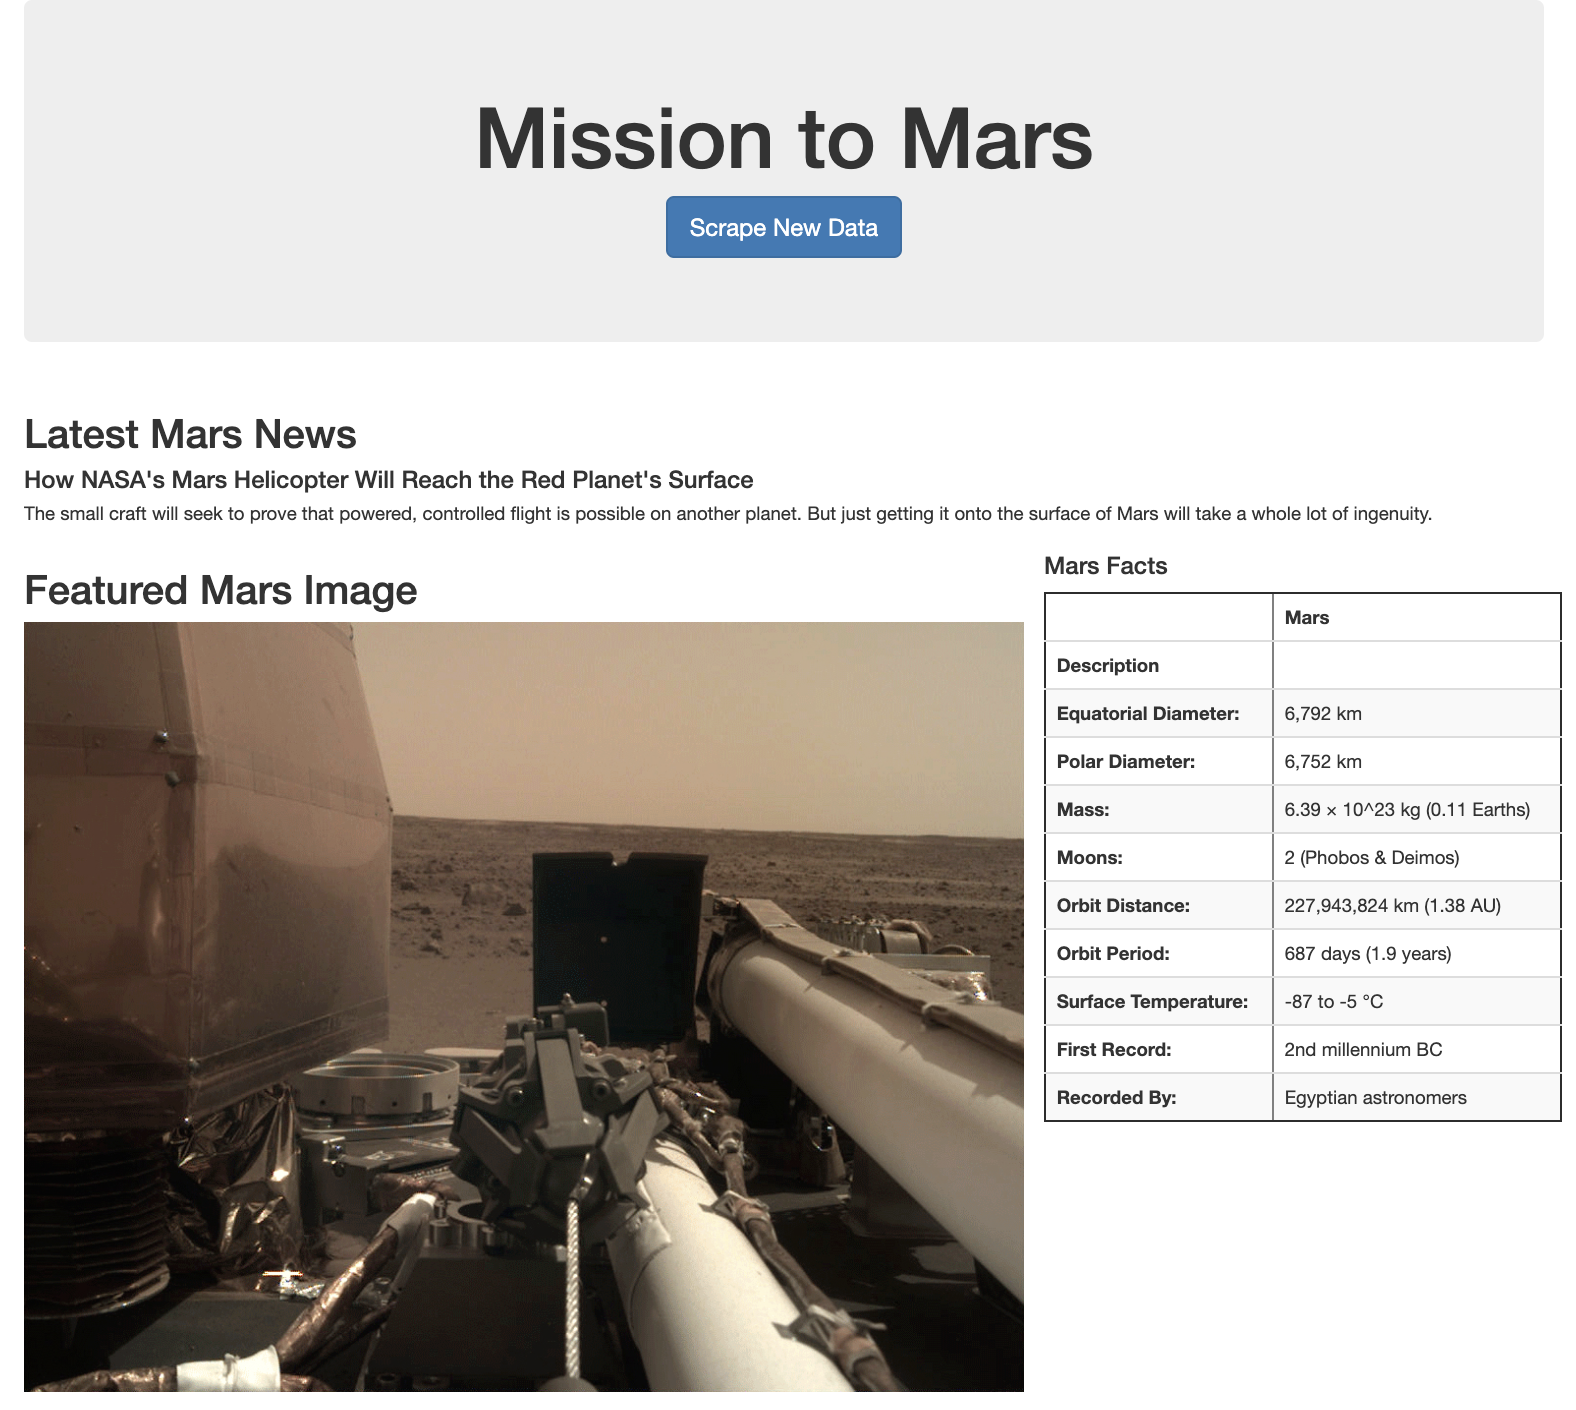
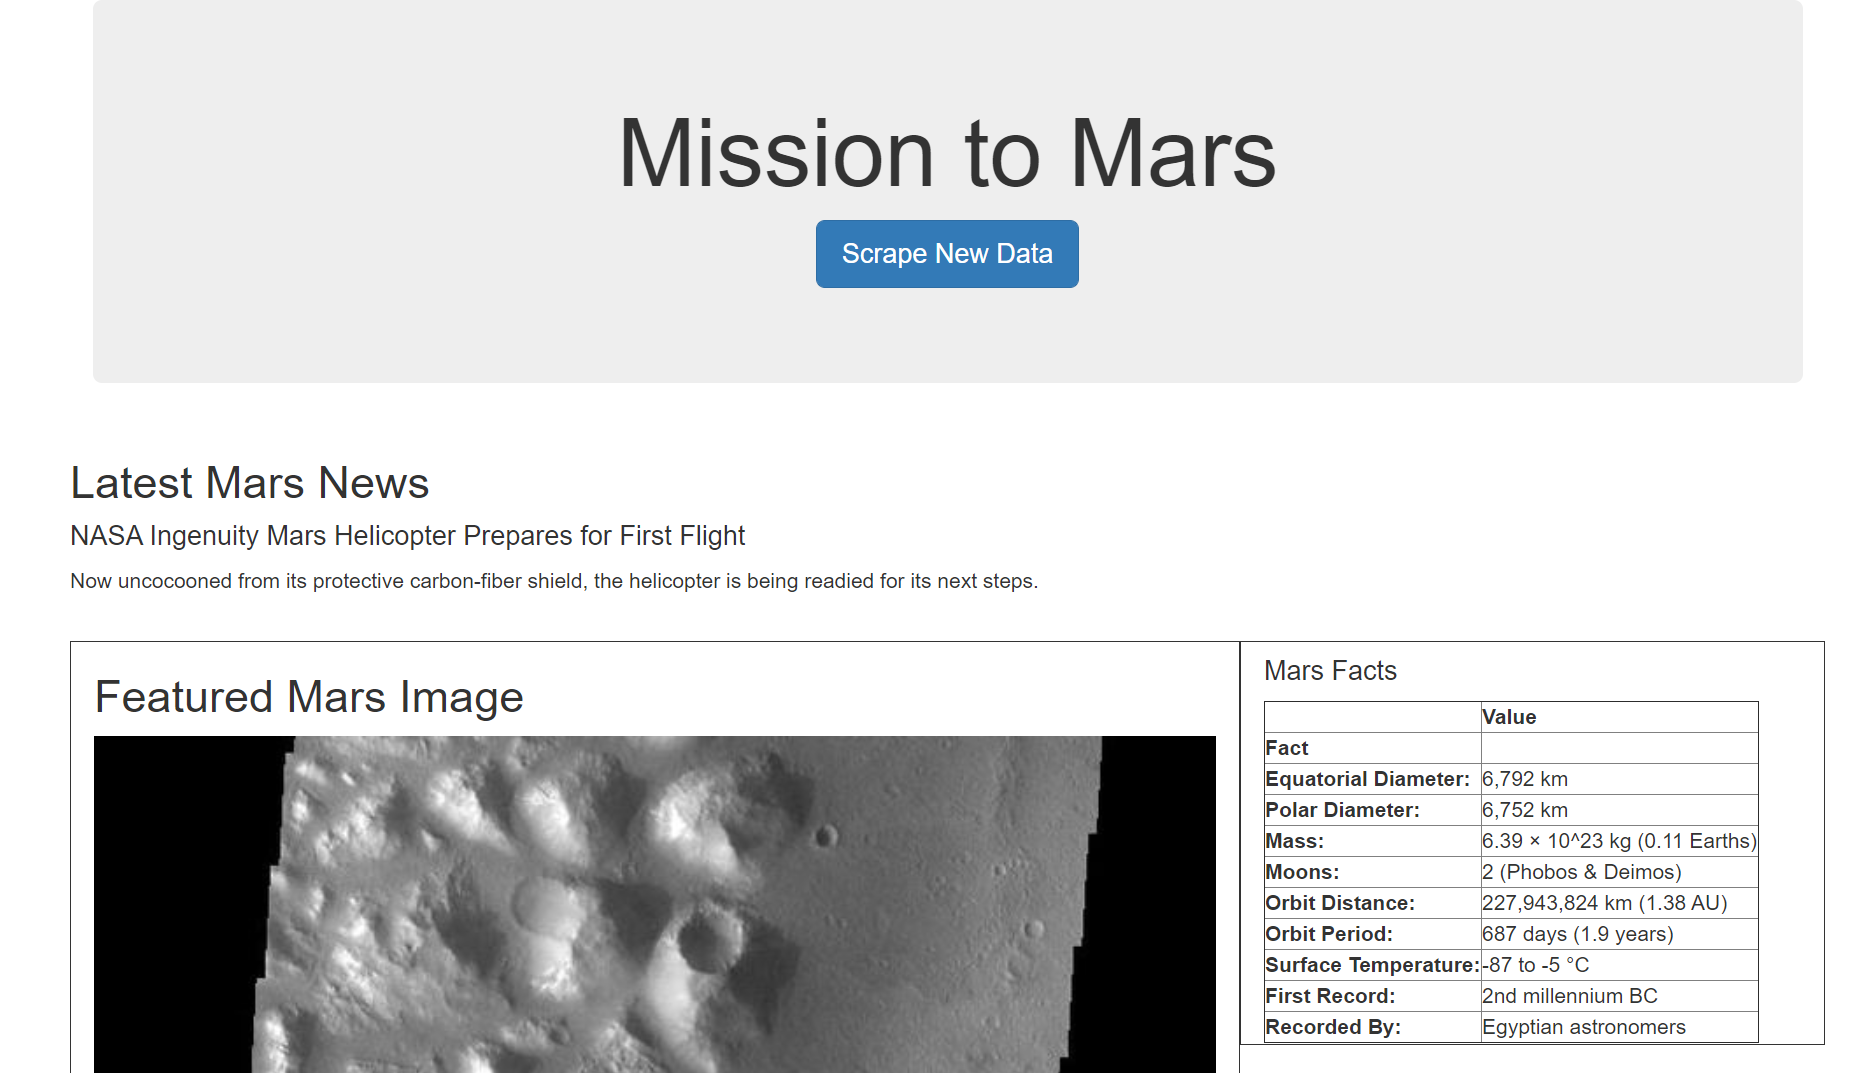
Step 2 sprint 2

diff --git a/Missions_to_Mars/templates/index.html b/Missions_to_Mars/templates/index.html
@@ -51,30 +51,30 @@
 
     <div class="row">
         <div class="col-md-6" style= "border: solid; border-width: 1px; padding: 5px; width: 49%; float: left;">
-          <img width="100%" src="{{listings.product_links[0].img_url}}" alt= "Cerberus Hemisphere Enhanced">
-          <h3 style= "text-align: center;">{{listings.product_links[0].title}}</h3>
+          <img width="100%" src="{{listings.image_links[0].img_url}}" alt= "Cerberus Hemisphere Enhanced">
+          <h3 style= "text-align: center;">{{listings.image_links[0].title}}</h3>
         </div>
 
         <div class="col-md-6" style= "border: solid; border-width: 1px; padding: 5px; width: 49%; float: right;">
-          <img width="100%" src="{{listings.product_links[1].img_url}}" alt= "Schiaparelli Hemisphere Enhanced">
-          <h3 style= "text-align: center;">{{listings.product_links[0].title}}</h3>  
+          <img width="100%" src="{{listings.image_links[1].img_url}}" alt= "Schiaparelli Hemisphere Enhanced">
+          <h3 style= "text-align: center;">{{listings.image_links[0].title}}</h3>  
         </div>
     </div>
     <br>
     <div class="row">
         <div class="col-md-6" style= "border: solid; border-width: 1px; padding: 5px; width: 49%; float: left;">
-          <img width="100%" src="{{listings.product_links[2].img_url}}" alt= "Syrtis Major Hemisphere Enhanced">
-          <h3 style= "text-align: center;">{{listings.product_links[0].title}}</h3>
+          <img width="100%" src="{{listings.image_links[2].img_url}}" alt= "Syrtis Major Hemisphere Enhanced">
+          <h3 style= "text-align: center;">{{listings.image_links[0].title}}</h3>
         </div>
 
         <div class="col-md-6" style= "border: solid; border-width: 1px; padding: 5px; width: 49%; float: right;">
-          <img width="100%" src="{{listings.product_links[3].img_url}}" alt= "Valles Marineris Hemisphere Enhanced">
-          <h3 style= "text-align: center;">{{listings.product_links[0].title}}</h3>
+          <img width="100%" src="{{listings.image_links[3].img_url}}" alt= "Valles Marineris Hemisphere Enhanced">
+          <h3 style= "text-align: center;">{{listings.image_links[0].title}}</h3>
         </div>
     </div>
-  
-  </div>
 
+  </div>
+  
   </div>
 </body>
 

diff --git a/Missions_to_Mars/scrape_mars.py b/Missions_to_Mars/scrape_mars.py
@@ -69,7 +69,19 @@ def scrape():
         
         products_links.append({"title" : heading, "img_url" : product_link})
 
-    mars_data['product_links'] = products_links
+    # Now that we have the page for each product, scrape the image link for each product 
+    image_links = []
+    for hemisphere in products_links:
+        browser.visit(hemisphere['img_url'])
+        html = browser.html
+        soup_hemisphere = BeautifulSoup(html, 'html.parser')
+        photo_url = \
+            f"https://astrogeology.usgs.gov{soup_hemisphere.find('img', class_='wide-image')['src']}"
+
+        image_links.append({"title" : hemisphere['title'], "img_url" : photo_url})
+
+        mars_data['image_links'] = image_links
 
     browser.quit()
+    
     return mars_data

diff --git a/README.md b/README.md
@@ -1,1 +1,28 @@
 # web-scraping-challenge
+## Jim Bentley
+
+In this project I used Python and Beautiful Soup to scrape a number of Mars information web sites.
+
+These included:
+1. NASA Mars News
+2. JPL Mars Space Images - Featured Image
+3. Mars Facts
+4. Mars Hemispheres
+
+All information was captured and stored into a Mongo database.
+
+Next I created a Flask application to serve a new web page with all the information stored in the database.
+
+Screenshots for the final web page are contained in the "images" directory and include:
+1. final_app_part1.png
+2. final_app_part2.png
+3. final_app_part3.png
+4. final_app_part4.png
+
+![alt text](https://github.com/bentleyj68/web-scraping-challenge/blob/main/Missions_to_Mars/Images/final_app_part1.png "Screen Capture 1")
+
+![alt text](https://github.com/bentleyj68/web-scraping-challenge/blob/main/Missions_to_Mars/Images/final_app_part2.png "Screen Capture 2")
+
+![alt text](https://github.com/bentleyj68/web-scraping-challenge/blob/main/Missions_to_Mars/Images/final_app_part3.png "Screen Capture 3")
+
+![alt text](https://github.com/bentleyj68/web-scraping-challenge/blob/main/Missions_to_Mars/Images/final_app_part4.png "Screen Capture 4")
